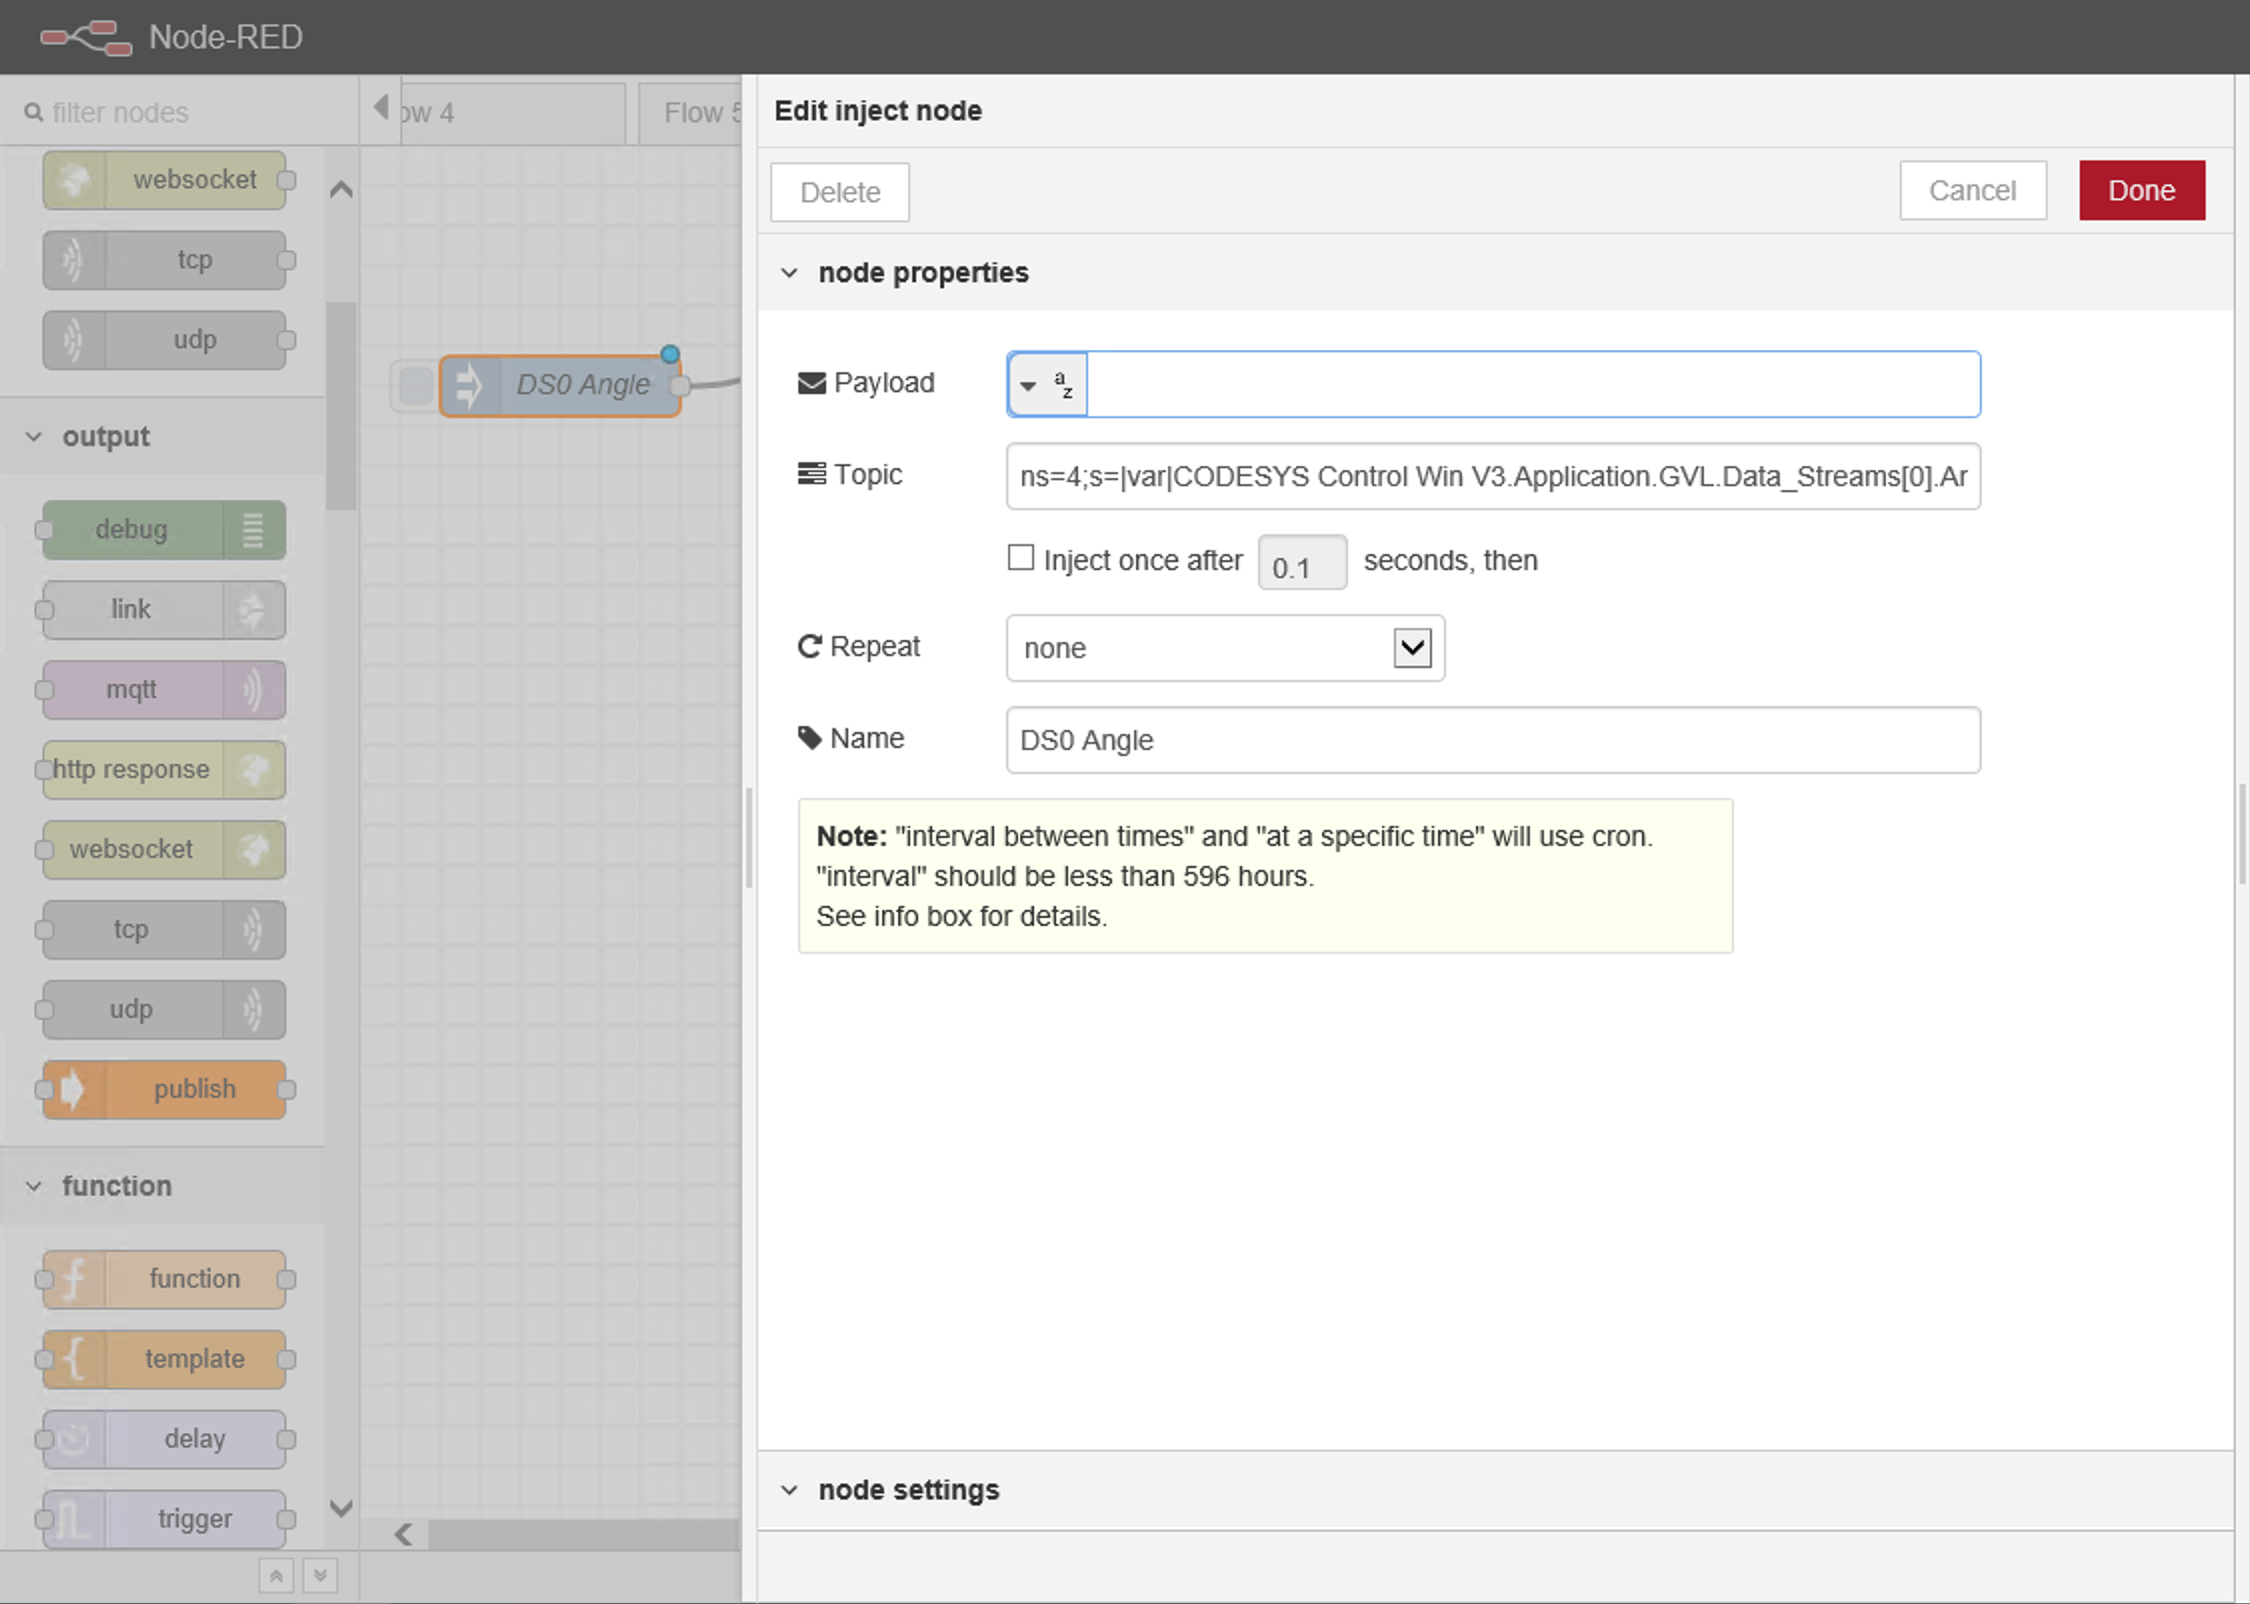
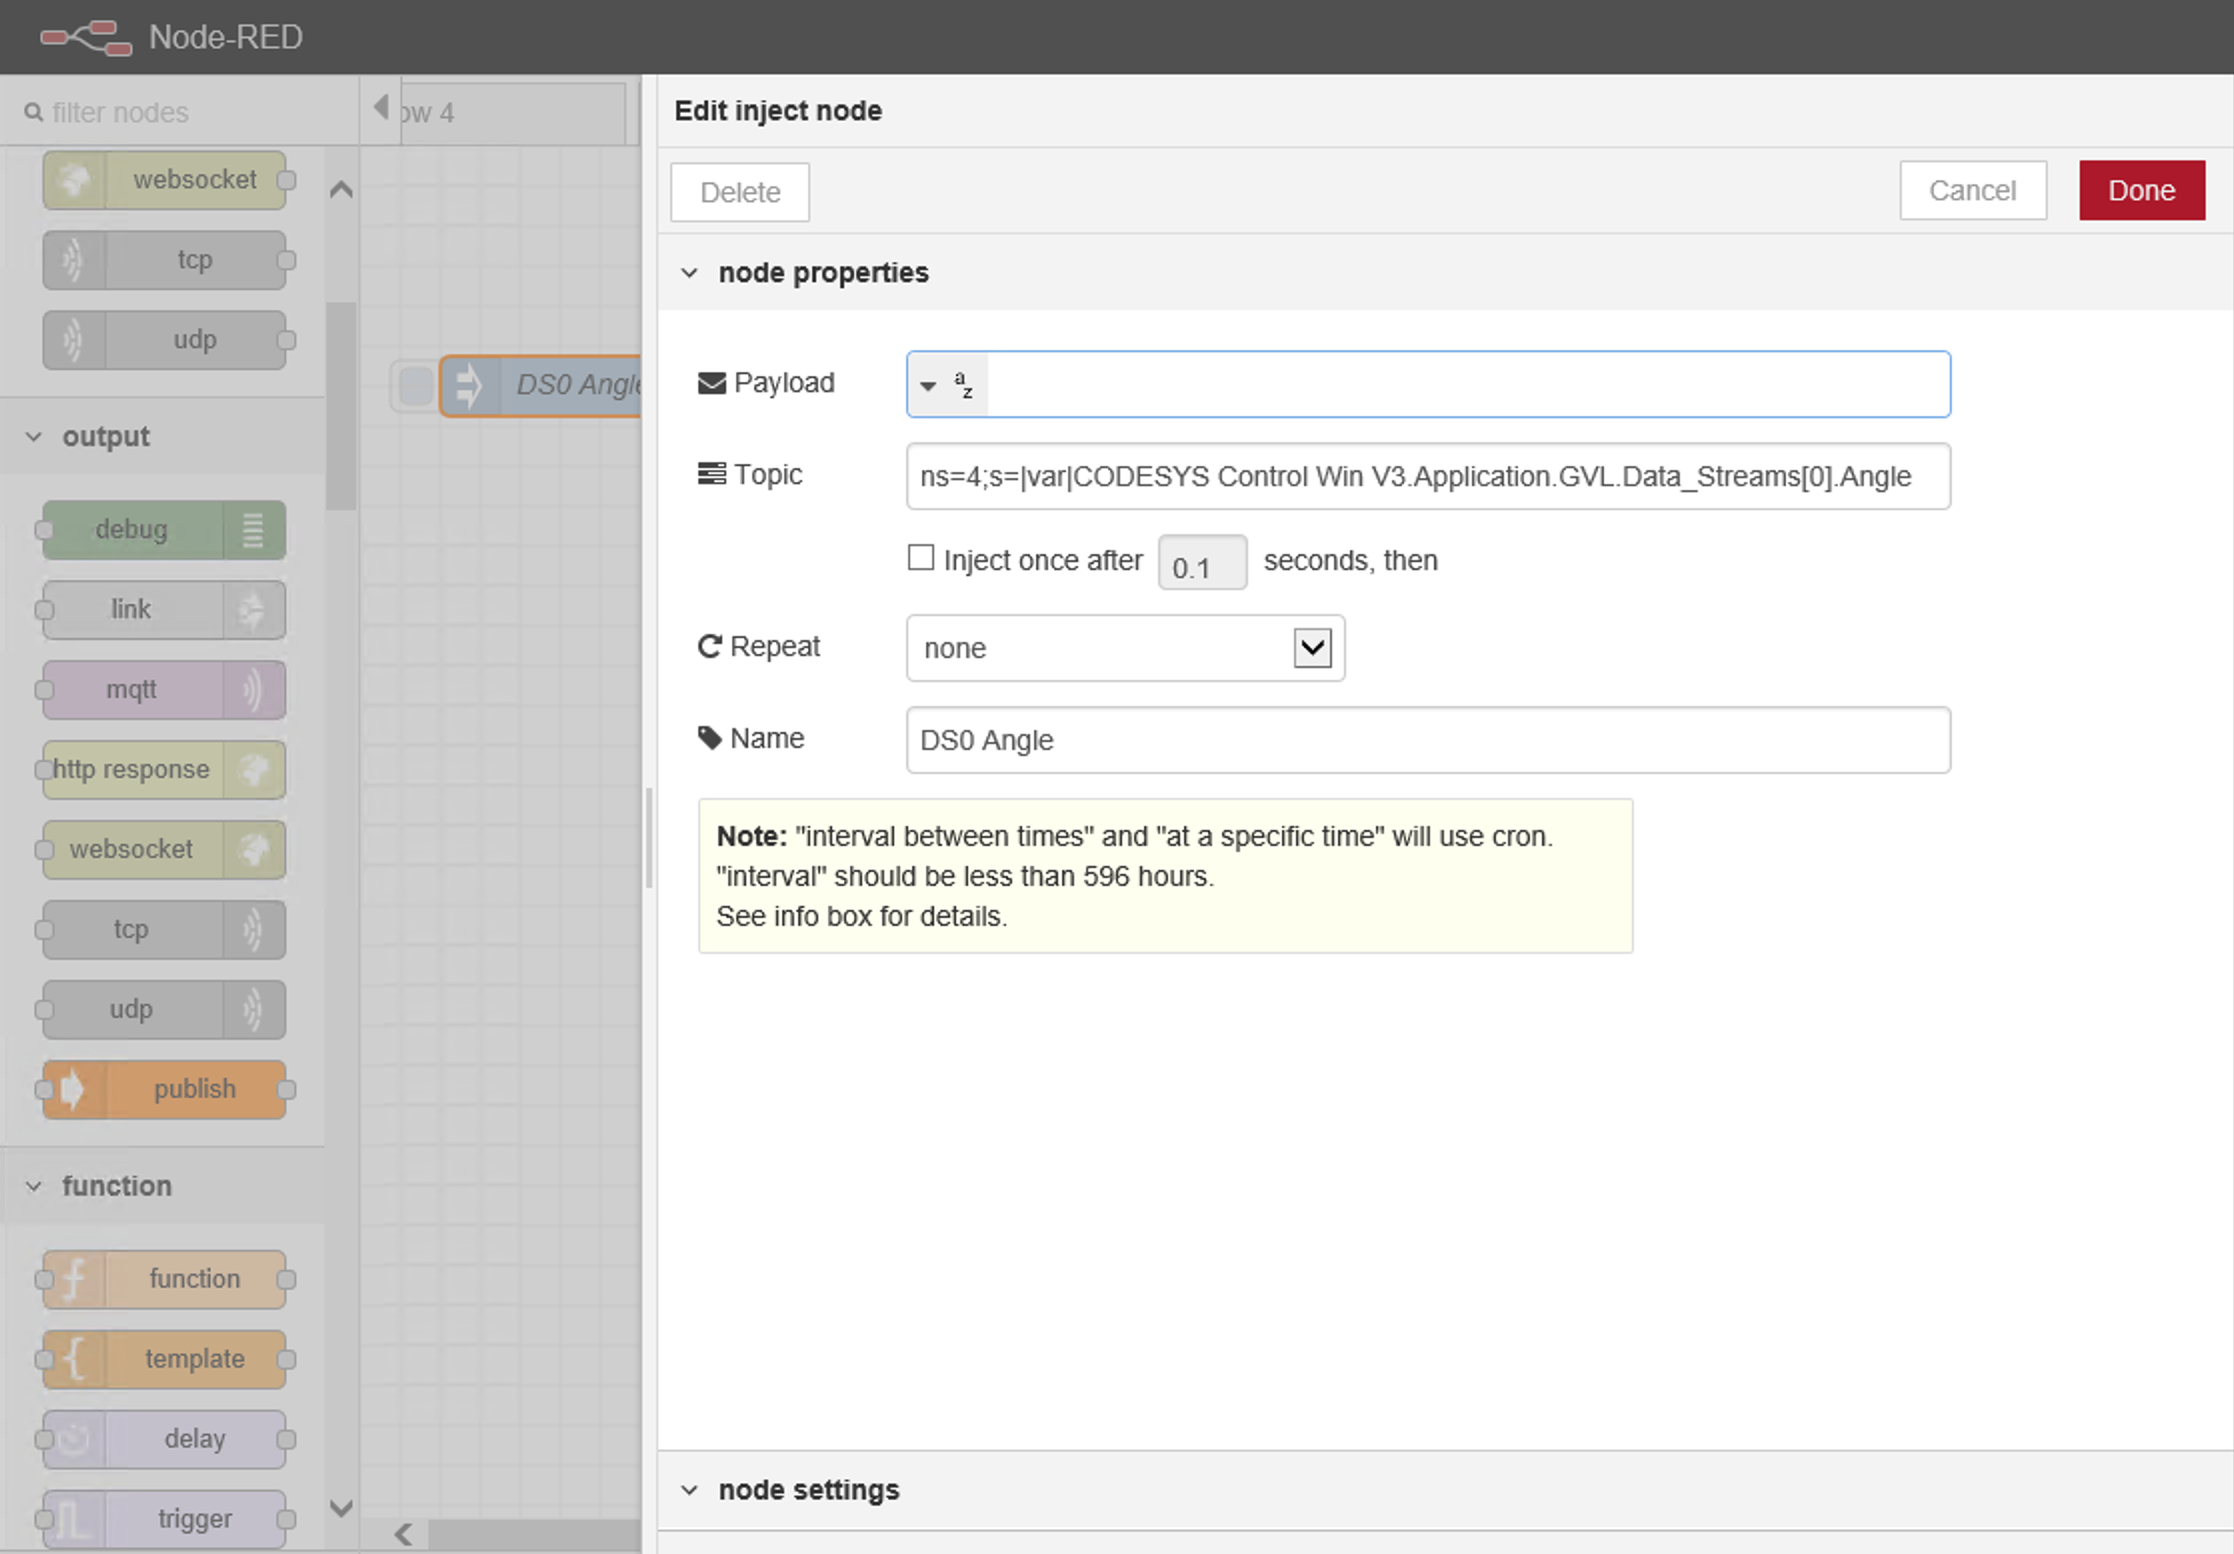
added NodeRed Images

diff --git a/README.md b/README.md
@@ -190,4 +190,32 @@ Next we are going to configure Node Red to listen to the OPC Server.
 
 1. Create a new Flow tab in Node Red.
 ![Node Red New Flow](images/nodered-newflow.png)
-2.
+
+
+2. From the left hand menu drag on an "inject" object and copy in the Topic string as per the screenshot, clicking Done once completed.
+![Node Red New Flow](images/nodered-inject.png)
+
+3. Next drag on a opc-ua-client object, link it to the inject object. Double click it and define the endpoint using the PLC Windows server IP, click Done.
+![Node Red New Flow](images/nodered-opcua.png)
+
+4. Next drag on a function, link it to the opc-ua client object and add the code as defined in the image below.
+![Node Red New Flow](images/nodered-function.png)
+
+5. Finally drag on a publish command and link it to the function. Your flow should be similar to that of the one in the screenshot.
+![Node Red New Flow](images/nodered-Angleflow.png)
+
+Now click **Deploy** in the top right hand of the Node Red window and then click on the inject objects button.
+
+The Node Red flow will now be sending data from the PLC to AWS IoT. If you go back to your AWS Console IoT Test windows where you have subscribed to **#** you will see the messages flowing in.
+
+## Additional Tasks (Advanced)
+
+Now that you have a flow running, you can repeat the above steps to define flows for the Sine variable and for the other 2 Data Streams (1 & 2).
+
+In total you could have 6 Flows defined.
+
+Make sure when repeating the steps that you change the variables and the topic string to match.
+
+You can also now configure AWS IoT Analytics to inject the data and visualise it.
+
+Good Luck.
